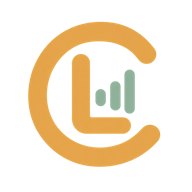
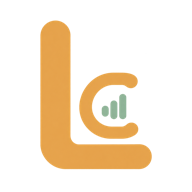
Make LiveCoach mark read LC (#201)

Changed region(s): [[0.125, 0.0938, 0.8438, 0.9062]]

diff --git a/components/LiveCoachLogo.tsx b/components/LiveCoachLogo.tsx
@@ -10,22 +10,22 @@ export function LiveCoachMark({ className = "h-8 w-8", ...props }: SVGProps<SVGS
       {...props}
     >
       <path
-        d="M49 15.5a25 25 0 1 0 .7 32"
+        d="M14 10v42h39"
         stroke="currentColor"
-        strokeWidth="7.5"
-        strokeLinecap="round"
-      />
-      <path
-        d="M25.5 21.5v21h17"
-        stroke="currentColor"
-        strokeWidth="6"
+        strokeWidth="8"
         strokeLinecap="round"
         strokeLinejoin="round"
       />
       <path
-        d="M35 34v2M41 30v6M47 26v10"
+        d="M49 27.5a13.5 13.5 0 1 0 0 15"
+        stroke="currentColor"
+        strokeWidth="5.5"
+        strokeLinecap="round"
+      />
+      <path
+        d="M36 36v1M41 33.5v4M46 31v6.5"
         stroke="rgb(var(--lc-sage))"
-        strokeWidth="4"
+        strokeWidth="3"
         strokeLinecap="round"
       />
     </svg>
